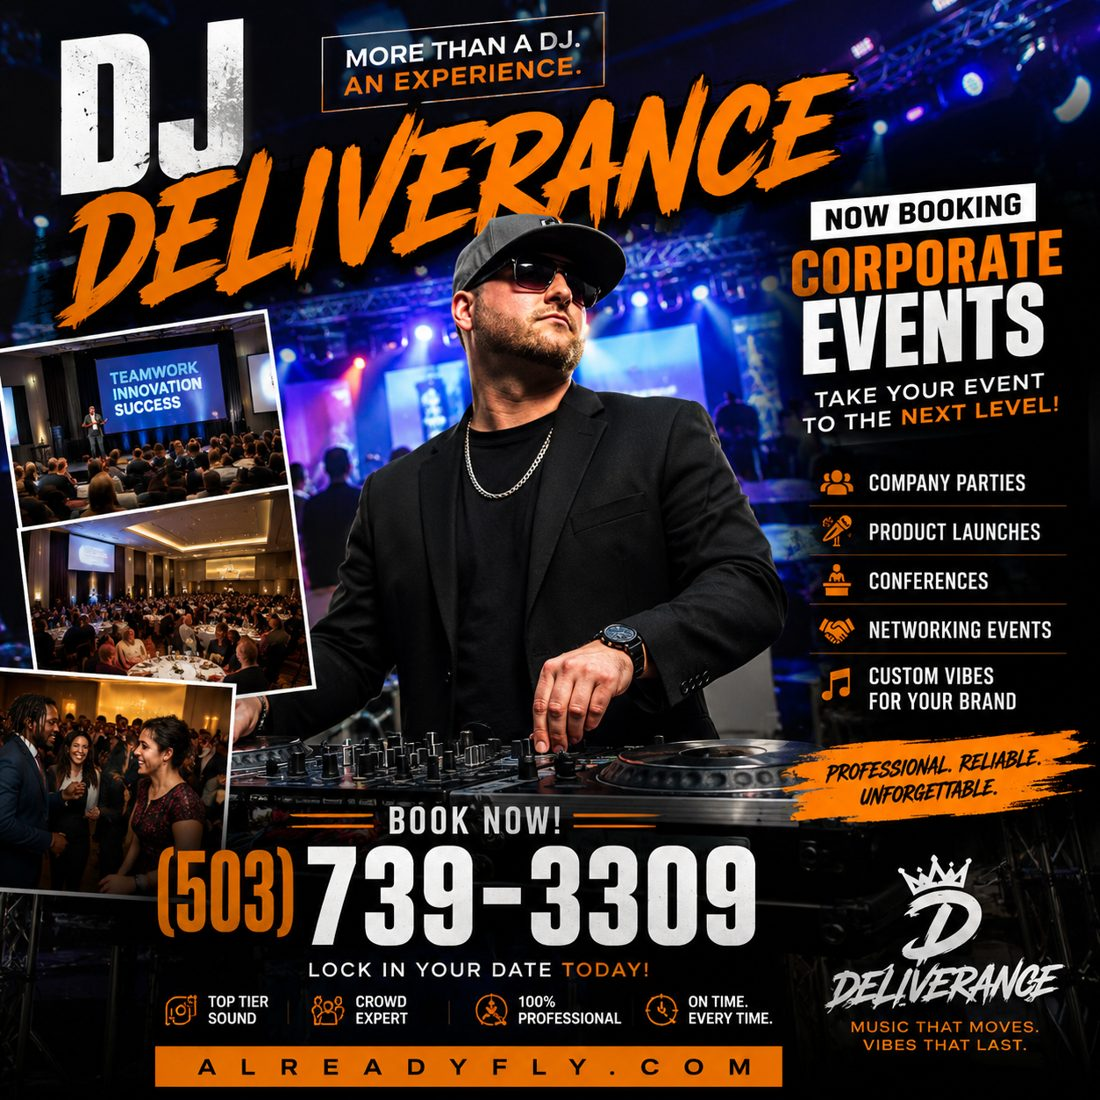
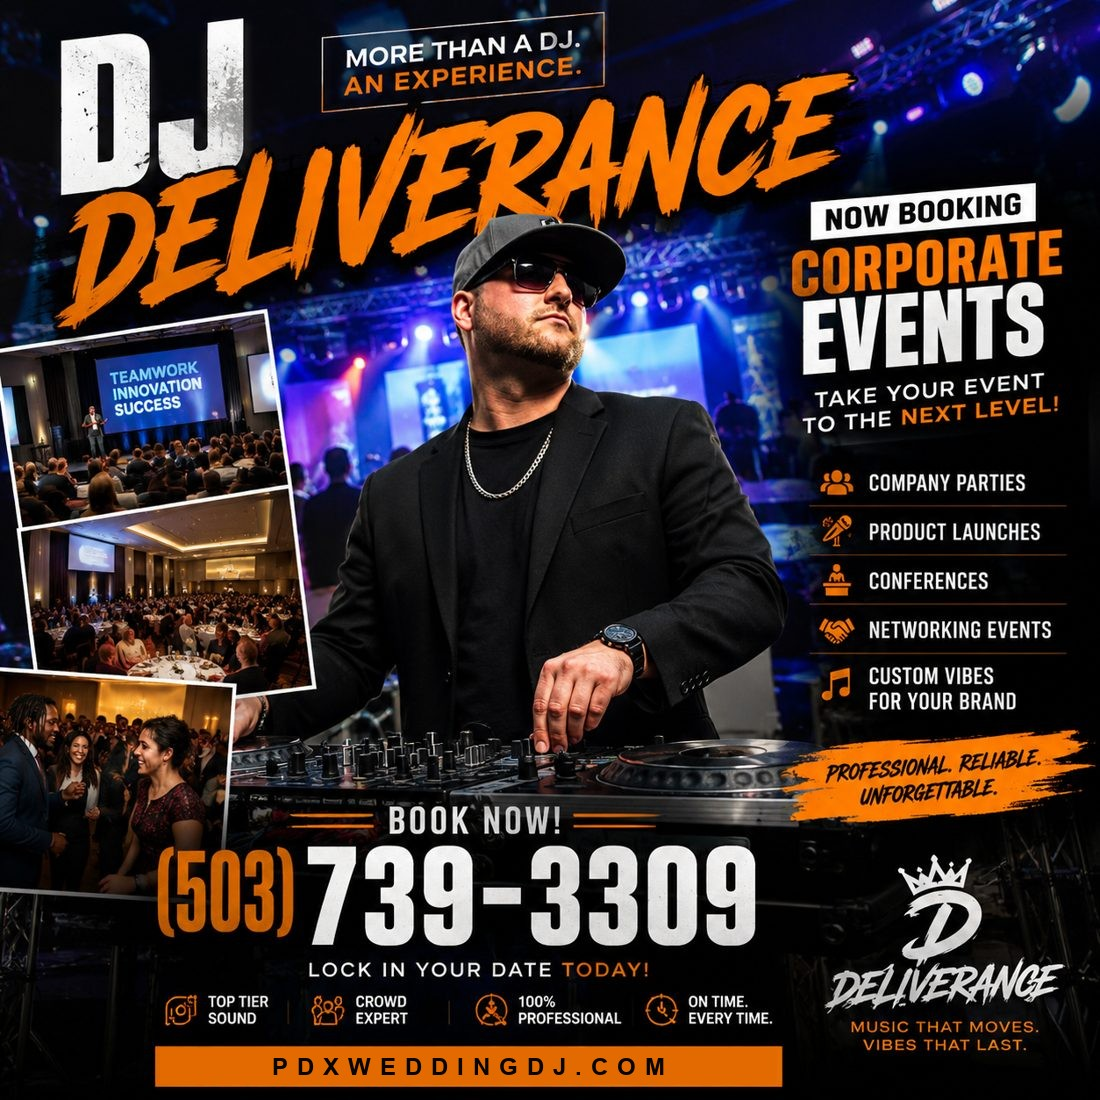
DJ Deliverance V1: launch version for pdxweddingdj.com
Drop the draft switcher and noindex, add canonical/og URLs, and replace the
alreadyfly.com address printed on the NYE and corporate flyers with pdxweddingdj.com.

Claude-Session: https://claude.ai/code/session_01UDMea2SJFdQvAQ24xCVfPC

Changed region(s): [[0.1855, 0.9582, 0.68, 0.9891]]

diff --git a/sites/dj-deliverance/index.html b/sites/dj-deliverance/index.html
@@ -3,13 +3,14 @@
 <head>
 <meta charset="utf-8" />
 <meta name="viewport" content="width=device-width,initial-scale=1,viewport-fit=cover" />
-<title>DJ Deliverance · Weddings, corporate events and parties · Call or text (503) 739-3309</title>
-<meta name="description" content="DJ Deliverance is an open format DJ now booking weddings, corporate events, holiday and New Year's Eve parties, clubs and private events. Call or text (503) 739-3309." />
-<meta name="robots" content="noindex,nofollow" />
+<title>DJ Deliverance · Portland wedding and event DJ · Call or text (503) 739-3309</title>
+<meta name="description" content="DJ Deliverance is a Portland open format DJ now booking weddings, corporate events, holiday and New Year's Eve parties, clubs and private events. Call or text (503) 739-3309." />
+<link rel="canonical" href="https://pdxweddingdj.com/" />
 <meta property="og:title" content="DJ Deliverance · Now booking" />
 <meta property="og:description" content="Weddings, corporate events, holiday parties, clubs and private events. Call or text (503) 739-3309." />
 <meta property="og:type" content="website" />
-<meta property="og:image" content="img/night.jpg" />
+<meta property="og:url" content="https://pdxweddingdj.com/" />
+<meta property="og:image" content="https://pdxweddingdj.com/img/weddings.jpg" />
 <link rel="preconnect" href="https://fonts.googleapis.com" />
 <link rel="preconnect" href="https://fonts.gstatic.com" crossorigin />
 <link href="https://fonts.googleapis.com/css2?family=Anton&family=Knewave&family=Barlow:wght@400;500;600;700&display=swap" rel="stylesheet" />
@@ -51,14 +52,6 @@
 </head>
 
 <body class="font-sans bg-ink text-chalk text-[17px] leading-relaxed">
-
-<!-- draft switcher: remove before launch -->
-<div class="bg-deck text-chalk/80 text-[13px] border-b border-line">
-  <div class="max-w-[1140px] mx-auto px-4 sm:px-6 py-2 flex items-center justify-between gap-3">
-    <span>Draft · Option 1</span>
-    <a href="v2/" class="underline underline-offset-2 hover:text-gold">See option 2</a>
-  </div>
-</div>
 
 <header class="sticky top-0 z-50 bg-ink/95 backdrop-blur border-b border-line">
   <div class="max-w-[1140px] mx-auto px-4 sm:px-6 py-2.5 flex items-center justify-between gap-3">
@@ -230,11 +223,11 @@
   });
 </script>
 
-<!-- CLIENT SITE (paid 11/16/2026), first draft. noindex stays on until it moves to his own domain.
-     All five images are flyers Chad sent Louis on 11/16. Service lists, taglines and the gold
-     strip are the wording on those flyers. Phone is from the flyers.
-     NOT on the page because it is not confirmed: where he is based, service area, prices,
-     email, real gig photos, mixes. alreadyfly.com (printed on two flyers) is deliberately
-     not linked: on 11/16 it loaded an unrelated spam page. -->
+<!-- CLIENT SITE (paid 11/16/2026). LIVE at https://pdxweddingdj.com from 11/24/2026 (S3 + CloudFront).
+     All five images are flyers Chad sent Louis on 11/16. On the NYE and corporate flyers the printed
+     alreadyfly.com (an unrelated spam page as of 11/16) was painted over with pdxweddingdj.com.
+     Service lists, taglines and the gold strip are the wording on those flyers. Phone is from the flyers.
+     "Portland" in the title/meta comes from the domain Louis chose; city/service area still unconfirmed.
+     NOT on the page because it is not confirmed: service area, prices, email, real gig photos, mixes. -->
 </body>
 </html>
